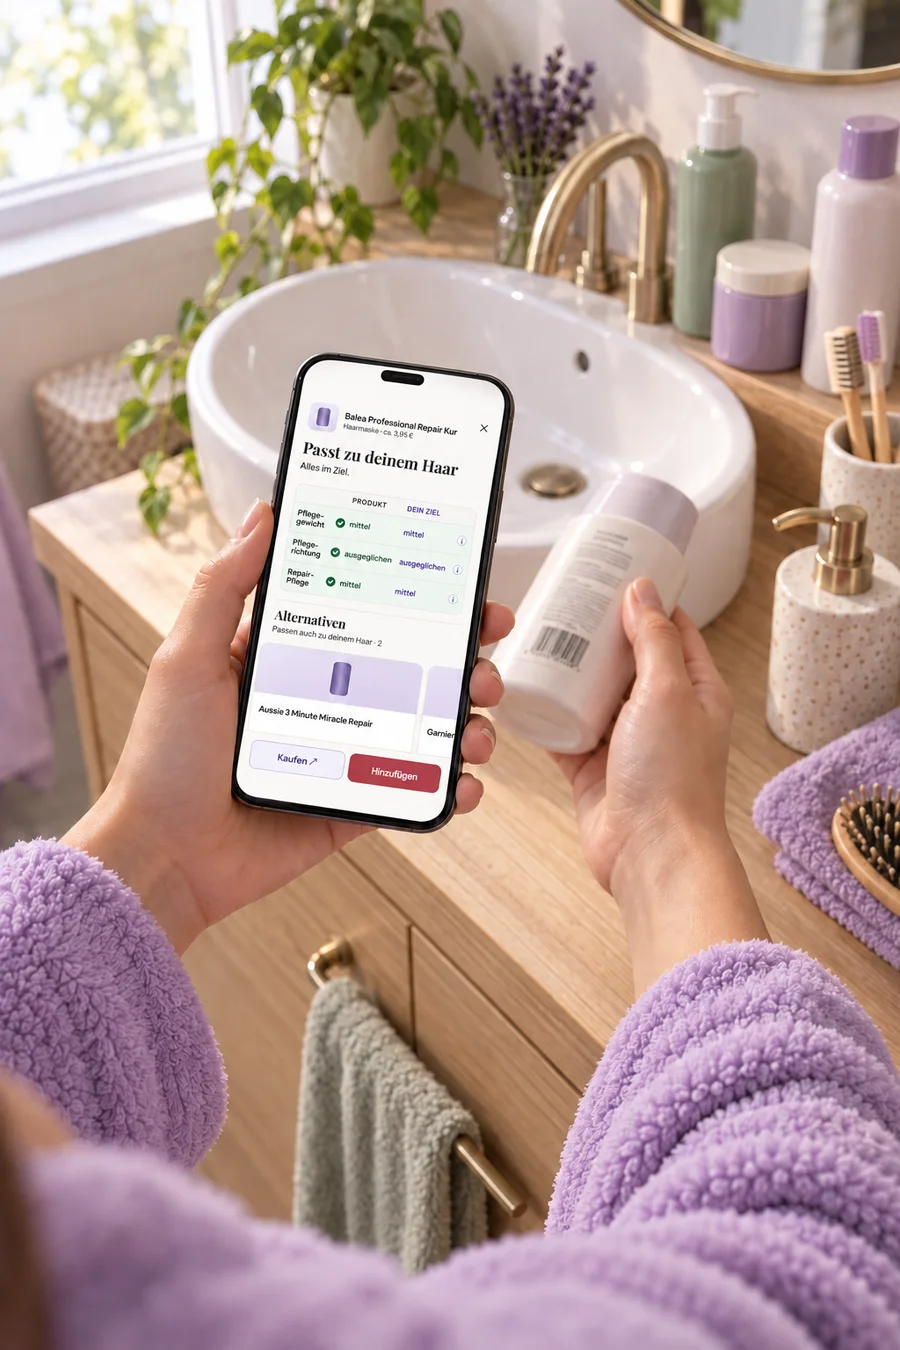
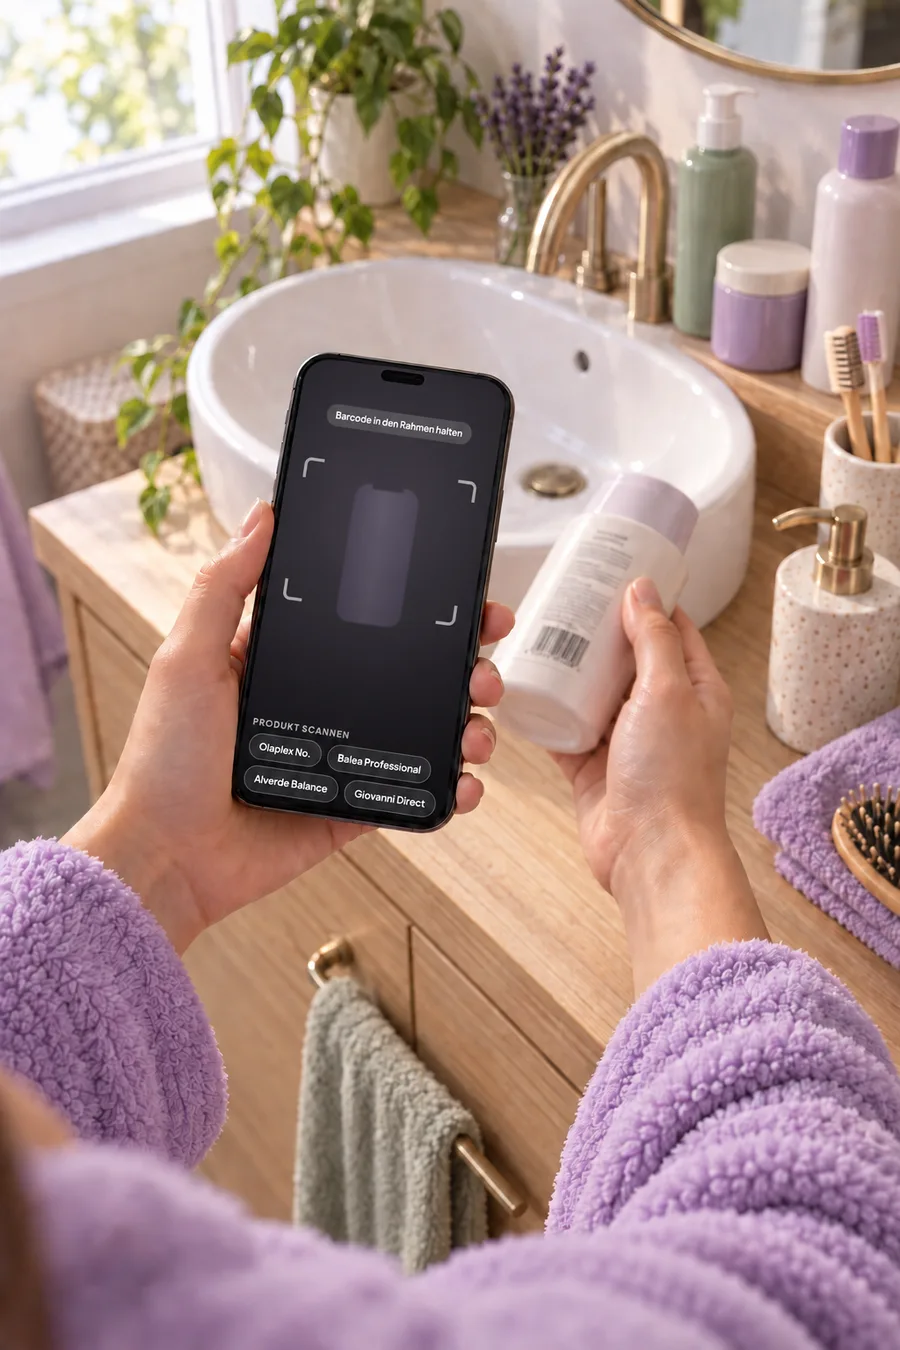
feat(scan-funnel): viewfinder-only photos for inserts 2 and 3
The overlay card on these inserts reacts to the user's answer, so the
phone in the photo must not carry a verdict of its own. Regenerated
(edit prompt + receipt in evidence/prompts), 900x1350 webp q82.

Changed region(s): [[0.2489, 0.2489, 0.56, 0.6222]]

diff --git a/plans/scanner-funnel/evidence/prompts/viewfinder-imagegen-receipt.md b/plans/scanner-funnel/evidence/prompts/viewfinder-imagegen-receipt.md
@@ -1,0 +1,31 @@
+# Built-in viewfinder image edits — 2026-09-13
+
+Mode: built-in image_gen, two independent precise-object-edit calls; one 1024 × 1536 PNG output each.
+
+Delivery: public/images/funnels/scan/regal-scan-flasche.png and public/images/funnels/scan/bad-ablage.png. Existing WebP files unchanged for Claude to convert.
+
+Visual QA: both show camera viewfinder only, with no verdict card, Passt headline, table, or added full-width top band. Camera screenshot fitted visually; exact source-pixel preservation is not established.
+
+Strict acceptance NOT met: pixel comparison detected changes outside the phone display. In two test regions entirely outside the phone (top 250 rows and rows 1000–1535), 787685/804864 pixels differ for regal-scan-flasche and 793773/804864 differ for bad-ablage. These counts detect any channel difference; they do not measure perceptual severity. Do not describe these outputs as pixel-identical outside the display. Exact preservation would require deterministic screen compositing, which was not performed because built-in image_gen was the requested mode.
+
+## regal-scan-flasche
+
+Source photo: `/private/tmp/claude-501/-Users-nick-AI-work-hair-conscierge/8ac2e4e1-3839-49d1-b03f-7ecf1a39bda4/scratchpad/chatgpt/regal-scan-flasche.png`
+
+Mode: precise-object-edit. One localized screen replacement, one output, 1024 x 1536 portrait PNG.
+Input image 1 is the photograph edit target. Input image 2 is screen-kamera.png, the exact 750 x 1514 scanner-viewfinder screenshot to insert.
+Replace ONLY the entire app content inside the smartphone display with input image 2, fitted edge to edge inside the display in the phone's EXISTING perspective and tilt, retaining the same screen glow and subtle reflection. Treat image 2 as an image insert, not inspiration: do not redraw, crop, translate, retype, reflow or alter the screenshot. Its German text stays exactly as supplied, including "Barcode in den Rahmen halten" and the bottom product chips. The viewfinder and bottle silhouette must remain as shown in input image 2.
+Remove ALL former verdict content from the display: no result card, no "Passt" headline, no comparison table, no alternatives, no Kaufen or Hinzufügen buttons. Only the supplied camera viewfinder screenshot appears on the screen.
+No added black band at the top: the screenshot fills the complete display from the top inner edge to the bottom inner edge, with no letterboxing, no separate black header strip; preserve only existing physical bezel/camera hardware. The screenshot's continuous dark camera background is intentional.
+Everything outside the display MUST stay pixel-identical to image 1: phone shape, bezel and placement, both hands, lilac sleeve, white shampoo bottle and its barcode, drugstore shelf, lighting, framing and colors. Preserve the original pixels outside the screen. Do not regenerate, retouch, sharpen, smooth, recolor or shift any part of the photo outside the display. No new text, no logos, no watermark.
+
+## bad-ablage
+
+Source photo: `/private/tmp/claude-501/-Users-nick-AI-work-hair-conscierge/8ac2e4e1-3839-49d1-b03f-7ecf1a39bda4/scratchpad/chatgpt/bad-ablage.png`
+
+Mode: precise-object-edit. One localized screen replacement, one output, 1024 x 1536 portrait PNG.
+Input image 1 is the photograph edit target. Input image 2 is screen-kamera.png, the exact 750 x 1514 scanner-viewfinder screenshot to insert.
+Replace ONLY the entire app content inside the smartphone display with input image 2, fitted edge to edge inside the display in the phone's EXISTING perspective and tilt, retaining the same screen glow and subtle reflection. Treat image 2 as an image insert, not inspiration: do not redraw, crop, translate, retype, reflow or alter the screenshot. Its German text stays exactly as supplied, including "Barcode in den Rahmen halten" and the bottom product chips. The viewfinder and bottle silhouette must remain as shown in input image 2.
+Remove ALL former verdict content from the display: no result card, no "Passt" headline, no comparison table, no alternatives, no Kaufen or Hinzufügen buttons. Only the supplied camera viewfinder screenshot appears on the screen.
+No added black band at the top: the screenshot fills the complete display from the top inner edge to the bottom inner edge, with no letterboxing, no separate black header strip; preserve only existing physical bezel/camera hardware. The screenshot's continuous dark camera background is intentional.
+Everything outside the display MUST stay pixel-identical to image 1: phone shape, thin bezel and small camera cutout, placement, both hands, lilac bathrobe, white bottle and barcode, sink, faucet, plants, all bathroom objects, lighting, framing and colors. Preserve the original pixels outside the screen. Do not regenerate, retouch, sharpen, smooth, recolor or shift any part of the photo outside the display. No new text, no logos, no watermark.

diff --git a/plans/scanner-funnel/evidence/prompts/viewfinder-edit-prompt.md b/plans/scanner-funnel/evidence/prompts/viewfinder-edit-prompt.md
@@ -1,0 +1,22 @@
+# Einfügung 2 + 3: Handy-Screen → Kamera-Sucher
+
+Mode: built-in image_gen, use case precise-object-edit. Two independent edits, one output each.
+Attachment for both: `screen-kamera.png` (750 × 1514, the scanner viewfinder). Keep 1024 × 1536 portrait.
+
+Why: the overlay card on these inserts reacts to the user's quiz answer, so the phone in the photo must not show a verdict of its own. Only the camera viewfinder may be on the screen.
+
+## Edit A — `regal-scan-flasche.png` → output `regal-scan-flasche-v2.png`
+
+Input image 1 is the edit target (over-the-shoulder drugstore shot, phone held above a white shampoo bottle). Make ONE localized change: replace the entire app content on the smartphone display with the attached screenshot (camera viewfinder), fitted edge to edge inside the display, in the phone's existing perspective and tilt, with the same screen glow and reflection. Do not redraw, crop, translate, retype or alter the screenshot; its German text stays exactly as it is. Everything outside the display stays unchanged: phone shape, bezel and placement, both hands, lilac sleeve, the bottle and its barcode, shelf, lighting, framing and colors. No new text, no logos, no watermark.
+
+## Edit B — `bad-ablage.png` → output `bad-ablage-v2.png`
+
+Input image 1 is the edit target (bright bathroom, lilac bathrobe, phone held frontal next to a white bottle). Make ONE localized change: replace the entire app content on the smartphone display with the attached screenshot (camera viewfinder), fitted edge to edge inside the display, in the phone's existing perspective, with the same screen glow and reflection. Do not redraw, crop, translate, retype or alter the screenshot; its German text stays exactly as it is. Everything outside the display stays unchanged: phone shape, bezel and placement, both hands, bathrobe, the bottle and its barcode, sink, faucet, plants, bathroom objects, lighting, framing and colors. No new text, no logos, no watermark.
+
+## Acceptance
+
+- The screen shows only the viewfinder frame over the bottle, no result card, no "Passt" headline, no table.
+- No black band at the top of the display (see the v4 fix for bad-ablage).
+- Hands, bottle and background pixel-identical to the input.
+
+Delivery: drop both outputs as PNG into `public/images/funnels/scan/` under the ORIGINAL names (`regal-scan-flasche.png`, `bad-ablage.png`); Claude converts them to webp and replaces the current files.
